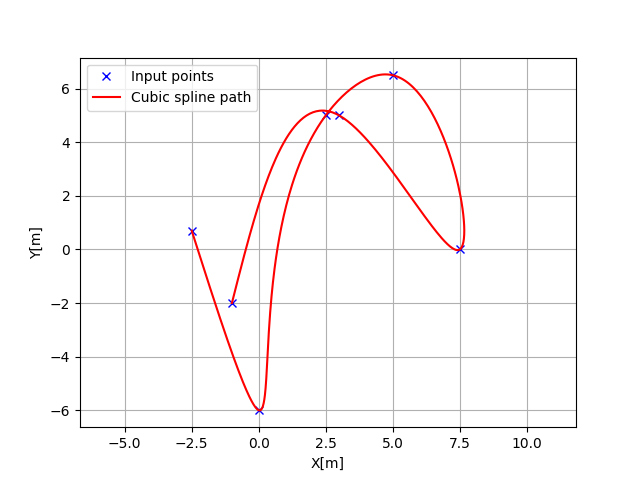
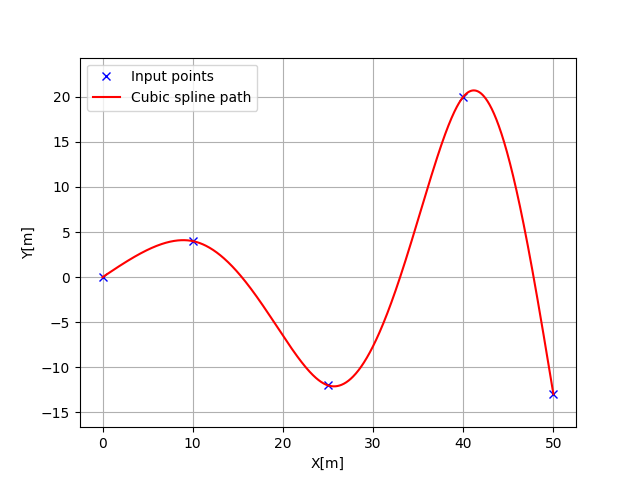
changed input xy points to create path

diff --git a/src/simulations/course/cubic_spline/cubic_spline_2d_plot.py b/src/simulations/course/cubic_spline/cubic_spline_2d_plot.py
@@ -29,8 +29,8 @@ def main():
     Main process function
     """
 
-    x_points = [-2.5, 0.0, 2.5, 5.0, 7.5, 3.0, -1.0]
-    y_points = [0.7, -6, 5, 6.5, 0.0, 5.0, -2.0]
+    x_points = [0.0, 10.0, 25, 40, 50]
+    y_points = [0.0, 4, -12, 20, -13]
 
     ds = 0.1 # distance between 2 interpolated points
 
